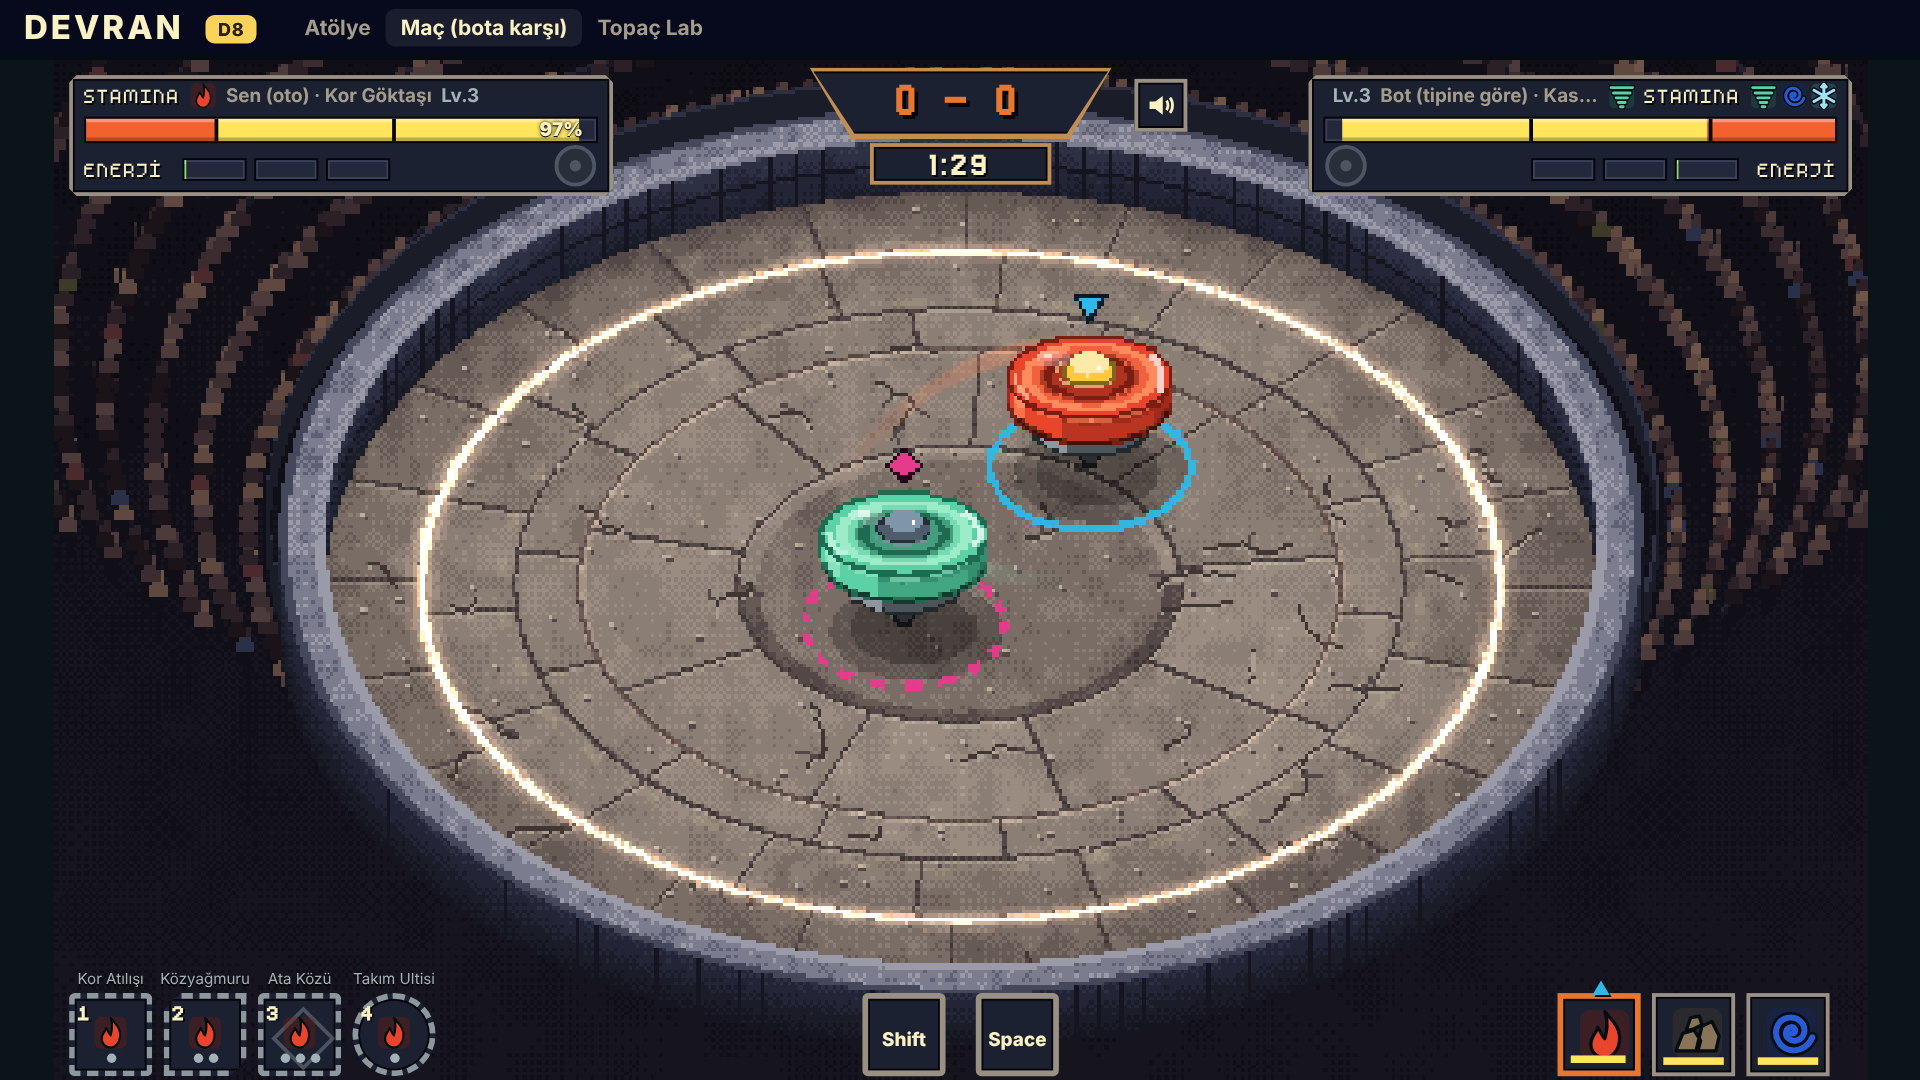
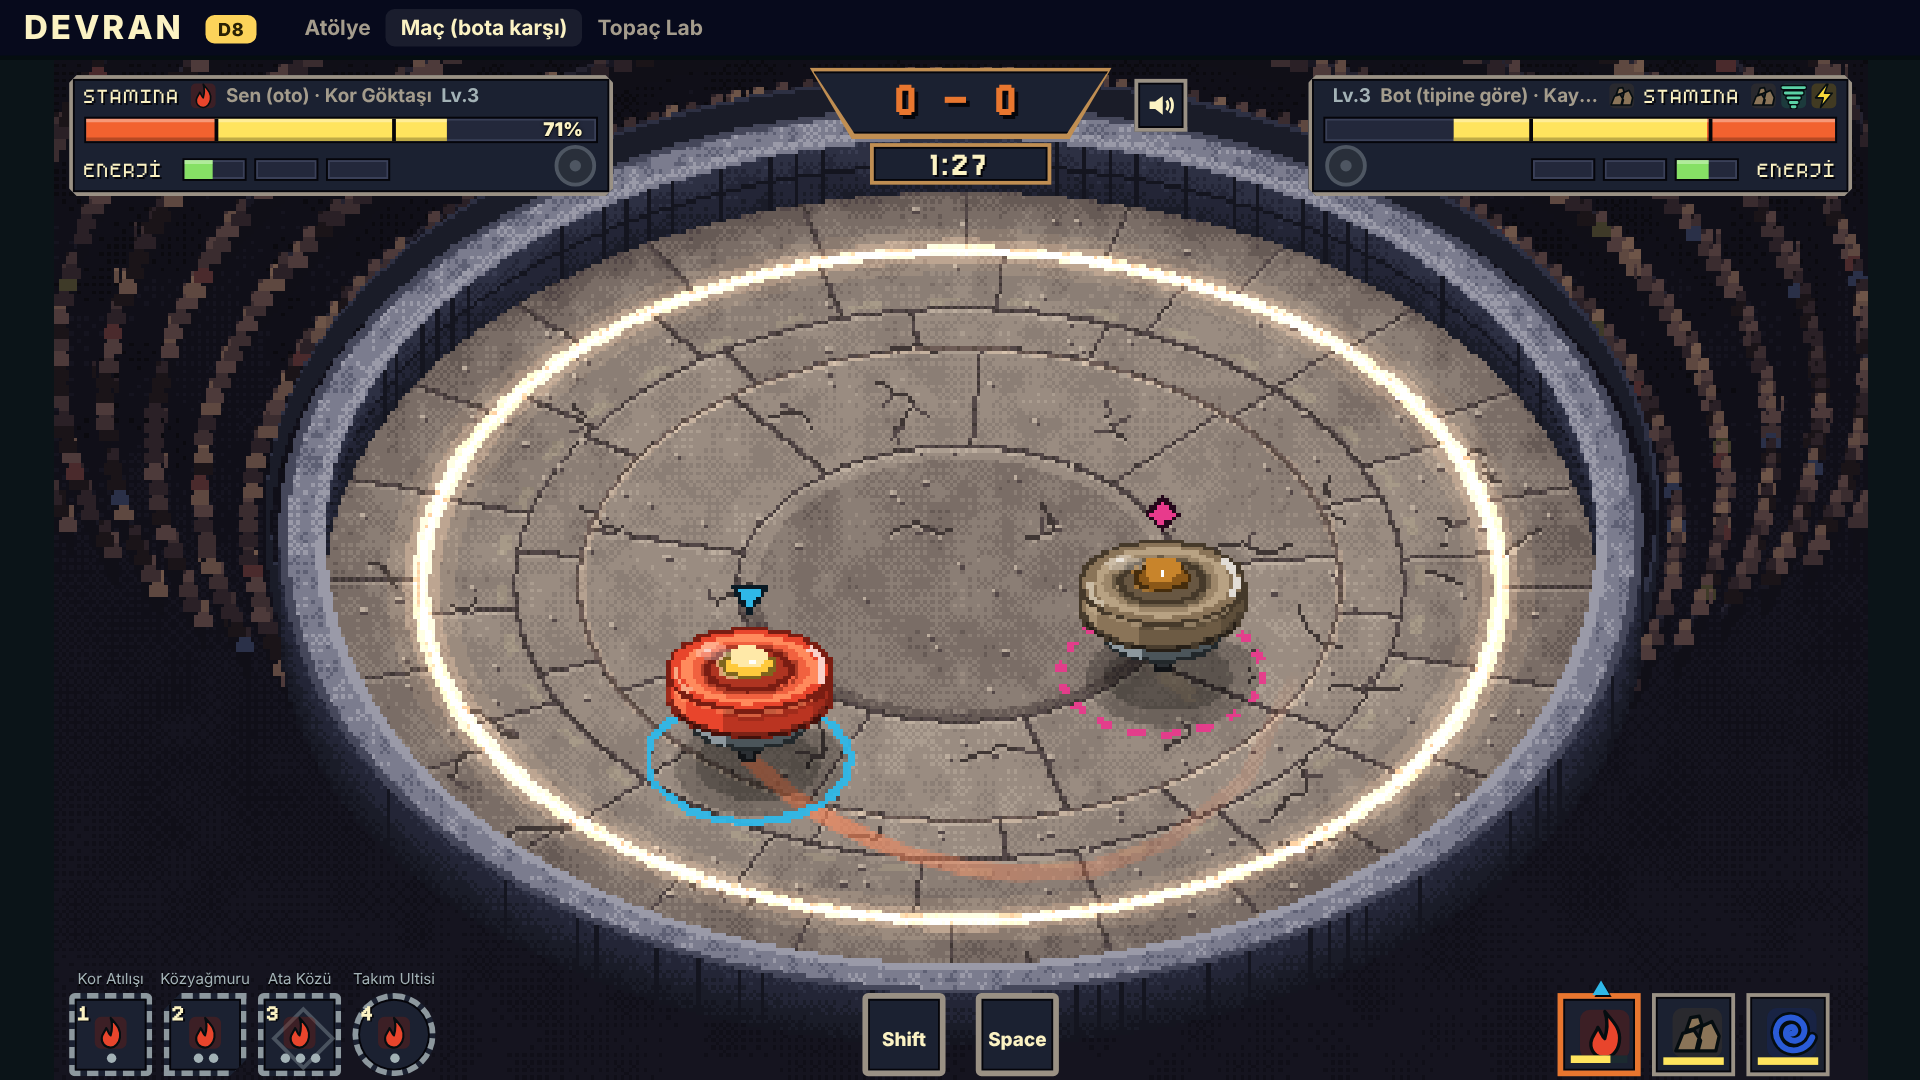
docs(gu-b): visual transformation report (reference fit 07: 4/5, 08: 3.5-4/5, frame work, gates, owner decisions, art needs); brighter wider belt glow, warmer floor
Claude-Session: https://claude.ai/code/session_01KrtXAEJc6nN2SyPJcv3nGr

diff --git a/src/istemci/oyun/HibritArena.ts b/src/istemci/oyun/HibritArena.ts
@@ -291,7 +291,7 @@ export class HibritArena implements ArenaCizimi {
       const zy = (j + 0.5 - g.cy) / g.ry;
       const r = Math.hypot(zx, zy);
       const id = slabId[p]!;
-      let v = 5.2 + tonAl(id) + (gurultu(i, j, 6, 1) - 0.5) * 1.3 + (gurultu(i, j, 2, 2) - 0.5) * 0.6;
+      let v = 5.6 + tonAl(id) + (gurultu(i, j, 6, 1) - 0.5) * 1.3 + (gurultu(i, j, 2, 2) - 0.5) * 0.6;
       // çukur (merkez 0,35R): koyu, uzak iç kenarı açık (görünen eğim), yakın kenarı gölge
       if (r < AYAR.merkezKucukAlan) {
         v -= 0.9;
@@ -376,10 +376,10 @@ export class HibritArena implements ArenaCizimi {
     const nabiz = 0.85 + 0.15 * Math.sin(this.zaman * Math.PI * 2 * 0.5);
     const p = (0.75 + 0.35 * this.parilti) * nabiz;
     const h = this.halka.clear();
-    h.circle(cx, cy, kd).stroke({ width: 14, color: ARENA_HIBRIT_RENK.hale, alpha: 0.12 * p });
-    h.circle(cx, cy, kd).stroke({ width: 8, color: ARENA_HIBRIT_RENK.hale, alpha: 0.22 * p });
-    h.circle(cx, cy, kd).stroke({ width: 4, color: ARENA_HIBRIT_RENK.halka, alpha: 0.75 * p });
-    h.circle(cx, cy, kd).stroke({ width: 2, color: ARENA_HIBRIT_RENK.halkaCekirdek, alpha: 0.9 * p });
+    h.circle(cx, cy, kd).stroke({ width: 26, color: ARENA_HIBRIT_RENK.hale, alpha: 0.1 * p });
+    h.circle(cx, cy, kd).stroke({ width: 14, color: ARENA_HIBRIT_RENK.hale, alpha: 0.2 * p });
+    h.circle(cx, cy, kd).stroke({ width: 7, color: ARENA_HIBRIT_RENK.halka, alpha: 0.8 * p });
+    h.circle(cx, cy, kd).stroke({ width: 3, color: ARENA_HIBRIT_RENK.halkaCekirdek, alpha: 0.95 * p });
     h.circle(cx, cy, ki).stroke({ width: 3, color: ARENA_HIBRIT_RENK.hale, alpha: 0.16 * p });
     // hız şeridi: kuşak bandında dönen kısa krem çizgiler ("burada hızlanıyorsun", pixel planı § 6.2)
     const s = this.serit.clear();

diff --git a/docs/production/raporlar/GU-B.md b/docs/production/raporlar/GU-B.md
@@ -1,0 +1,78 @@
+# GU-B raporu: maç ekranının görsel dönüşümü (Hibrit kamera, topaç, efekt, HUD, Ulti)
+
+**Tarih:** 2026-11-05 · **Dal:** `devran-kod` · **Şapka:** grafik / oyun geliştirici + sanat yönetmeni
+**Sahibin talimatı:** "Bir an önce oyunumuzun referans görsellerdeki gibi görünmesini istiyorum." Kamera kararı **K-1 Hibrit**:
+fizik, sim, netcode, bot, tahmin ve hash düz kalır; yalnız sunum eğik.
+**Kapsam:** `src/istemci/oyun/**` (maç sahnesi), `src/istemci/ekranlar/Mac.ts`, `Seyirci.ts`, `TopacLab.ts` (yalnız sahne bağlantısı),
+`src/istemci/ses/Ses.ts`, `public/efekt/`, `public/ses/kayit/`, `veri/manifest-ses.json`. `src/paylasilan/**` **değişmedi**;
+altın hash'ler aynı (`npm run test:tarayici`: 14/14 AYNI). Menü ekranlarına dokunulmadı (Ayarlar seçeneği `AYAR_SECENEKLERI`
+üzerinden menüde kendiliğinden görünür).
+
+## 1. Ne değişti (dilim dilim)
+
+| Dilim | Commit | Ne |
+|---|---|---|
+| GU-00 Hibrit kamera | `da6d07a`, `137f65d` | Tek dönüşüm `Sahne` + `kamera.ts`: dünyaY = merkez + kayma + z·**0,62**, sabit kamera yakınlığı **×1,4** (çanak ekranı doldursun), fare nişanı ters dönüşümle (`ekrandanSime`, birim testli). Zemin düzlemi kapsayıcıları (`zeminDuzlem`, `ustDuzlem`): içlerinde düz sim koordinatıyla çizilen telegraf, alan dekali, nişan, bağ çizgisi otomatik elips olur. Sarsıntı, squash normali, kıvılcım/toz/duvar parçacık yönleri izdüşmüş normali kullanır. H11 kenar uyarısı dudakta elips yay, "!" dik. Pixel görünüm: dünya `cacheAsTexture({resolution 0,5, nearest})` ile **480×270** dokuya çizilip büyütülür (sabit `boundsArea`, ızgara kaymaz). Yeni `HibritArena`: yordamsal pixel dokular (tribün + kalabalık siluetleri, hafif parallax; uzak duvar iç yüzü taş blok dikişli; dudak; çatlaklı taş levha zemin, Bayer dither, çakıl, merkez çukur, kenar eğim gölgesi; ayrı yakın dudak dokusu topacın ÜSTÜNDE), ışıyan kuşak halkası `#FBBE88` (ADD, ≤ 1 Hz nabız, şeritte parlar), dönen hız şeridi, ani ölüm kararması + kalınlaşan kırmızı sınır. Ring Out'ta uzak yarıdan düşen topaç duvarın arkasına geçer. Nesneler ekranY'ye göre sıralı. **Ayarlar › "Düz görünüm (sonraki maç)"**: eski `KusakArenasi` + `TopacGorsel` çizimi aynen (URL `?gorunum=duz|hibrit` geliştirici ezmesi). |
+| GU-topaç | `da6d07a`, `33a0820` | `TopacYandan`: üç çeyrek katmanlı yer tutucu (elips gölge, takım çemberi zeminde elips: oyuncu düz + ▼, rakip kesikli + ◆; Uç konisi, Disk silindiri + dönen kilit çentikleri, Gövde yan bandı ışıklı/koyu dilimler + dönen sırt çizgileri, üst yüzde dönen kanat siluet, Çekirdek kubbe + Lv. yayı, dönmeyen parlama), 3 hız kademesi (bulanık disk / iki hayaletli bulanık kanat / keskin kanat + yalpa eğilmesi), Sekme'de yükselme + gölge ayrılması, Durma'da yana yatma, Parçalanma'da katmanlar havada sekerek dağılır, Çekirdek yerde parlar, H12 çatlak üst yüzde. Element paleti `renkler.ts` (pixel planı § 2.3). Hepsi Pixi Graphics, dışarıdan sanat yok. |
+| GU-efekt | `382ed61` | Pişmiş atlaslar `public/efekt/` (pixelfx MIT + Aim CC0; `EfektAtlas.ts`: Spritesheet, `nearest`, önbellek, yüklenemezse yordamsal yedek). Atlas pikseli = sanat pikseli. Hava efektleri sheet'ten: kıvılcım (ağır), kritik yıldız patlaması, toz bulutu (Ring Out, Parçalanma, Durma), enerji doldu, Kor bulutu / Don kırılma / Şimşek çarpma, element Ulti (kasırga hortumu, girdap çöküşü, kaya sivrisi …). Zemin efektleri kodla elips (şok çemberi, Ulti halkaları); tam sayı olmayan dikey ölçek yok. Yordamsal: ışınsal yıldız patlaması ve iki topacın renginde hız çizgileri (referans 07), kıvılcımlar gövde yüksekliğinde. Ses: 18 CC0 kayıt (`public/ses/kayit/`) sentez tabanın üstüne katman (`KAYIT_KATMANI`; hafif/ağır/kritik metal, duvar, cam Parçalanma, bozuk para Durma, zil Enerji, UI tık); dosya yüklenmezse yalnız sentez. `manifest-ses.json` `kayitAdaylari` → "entegre". |
+| GU-02 HUD | `d6445a8` | `MacHud` DOM yapısı, H1–H15 konumları, ARIA, %100/125/150 metin ölçeği, yüksek kontrast korundu; menü dili jetonları/yazıları (`jetonlar.css`, `public/yazi/` m5x7 + Jersey 10) kullanıldı. STAMINA / ENERJİ büyük harf pixel etiket; stamina çubuğu dış uçtan kırmızı (%0–25) → sarı bölgeli (referans 07; ayraçlar, tarama, "!" ve nabız korundu); Enerji yeşil `#86E065` → Ulti hazırken sarı-turuncu `#FEE55F` + turuncu "ULTİ"; bronz trapez skor plakası, turuncu Jersey rakam; süre plakası; lacivert pahlı paneller, bej çerçeve; aktif takım yuvası turuncu çerçeve. **H16 ses düğmesi** (her zaman görünür, M ile aynı, üzerine gelince Müzik/Efekt kaydırıcıları, `localStorage`), arena müziği döngüsü (%40 varsayılan). |
+| GU-05 Ulti / telegraf | `26ef02a` | Telegraf kırmızısı `#C82625`; Ulti atanın altında eş merkezli **iki kırmızı zemin halkası** + topaç üstünde element aurası (08'deki alev); rakip alanları zeminde taramalı elips + dik element simgesi + bağ çizgisi; dash koni izi; sol/sağ kenar `#E6680C` parlaması (yalnız "Flaş: Normal", ≤ %25, 0,3 s tek yönlü); D8 özgün ruh siluetleri uzak duvar hizasında, yarı saydam (≤ %75), kamera yakınlığı telafili; Takım Ultisi üç ruh. Kanatlı kuş YOK. |
+| Doğrulama | `01895c1` + bu commit | `araclar/gu-ekran.ts` (ekran görüntüleri + kare işi ölçümü), `test/kamera.test.ts`, bu rapor. |
+
+## 2. Ekran görüntüleri (`docs/production/raporlar/ekran/`, 1920×1080: 1280×720 CSS × DPR 1,5 = 960×540 mantıksal × 2)
+
+`GU-B-01-normal` · `02-carpisma` · `03-hiz-seridi` · `04-dusuk-stamina-yalpa` · `05-ring-out` · `06-parcalanma` · `07-ani-olum` ·
+`08-telegraf-rakip-ulti` · `09-ulti-ani` · `10-takim-ultisi` · `11-duz-gorunum` · `12-topac-lab` · `13-durma` · yan yana:
+`GU-B-kiyas-07.png` (referans 07 | çarpışma anı), `GU-B-kiyas-08.png` (referans 08 | Ulti anı). Özet: `GU-B-ozet.json`.
+Not: 960×540 görüntü alanı uygulamada "en az 1280×720" uyarısını açtığı için DPR 2 yerine aynı çıktı boyutunu veren 1,5 kullanıldı.
+`10-takim-ultisi` aynı betiğin önceki koşusundan (son koşuda Takım Ultisi tuşu headless zamanlamasında kaçtı, `ozet.json`'da kayıtlı).
+Ekrandaki üst gezinti çubuğu menü kabuğunun (başka ajan), maç sahnesinin değil.
+
+## 3. Referans uyumu (0–5)
+
+| Ekran | Önce (tasarım dili § 7.1) | Şimdi | Gerekçe |
+|---|---|---|---|
+| 07 maç | 2 | **4** | Eğik elips çanak, uzak duvar + tribün, çatlak taş, ışıyan halka, yandan topaçlar, yıldız patlaması + renkli hız çizgileri, STAMINA/ENERJİ, kırmızı→sarı çubuk, yeşil Enerji, bronz skor plakası, alt yuvalar düzeni referansla örtüşüyor. |
+| 08 Ulti | 2 | **3,5–4** | Çift kırmızı zemin halkası, kenar parlaması, alev aurası, dash konisi, yarı saydam ruh arenanın üstünde, sarı-turuncu Enerji + ULTİ. |
+
+**Kalan farklar (kaçak):** (1) çanak referansta ekranı tam doldurur ve topaçlar daha büyük; bizde yakınlık ×1,4 (HUD şeritleri 50–492 dışında kalsın diye; ×1,6 referansa daha yakın ama alt/üst kenar HUD altına girer) · (2) topaçlar yer tutucu Graphics: referanstaki elle çizilmiş pixel sprite kalitesinde değil (eş merkezli sırtlar ve amblem sade) · (3) referansın uzun koyu düşen gölgesi bizde yumuşak elips · (4) tribün kalabalığı yanlarda çizgisel bant gibi okunuyor, referansta seyrek ve iri · (5) mavi topacın krem sarmal izi bizde düz MeshRope (eğik ve kısa) · (6) avatar sanatı yer tutucu siluet. **Kasıtlı (kapatılmaz):** takım çemberi + ▼/◆, ad/Lv./%/Çatlak satırı, 4. yuva + Shift/Space, kanatsız özgün ruh, telegrafta çapraz tarama (tasarım dili § 7.11).
+
+## 4. Performans (headless Chromium 153, SwiftShader yazılım GL; gerçek GPU değil)
+
+Kare başına CPU işi (mantık + Pixi render; `__mac.olcumBaslat`, ~130 kare, oto maç): **Hibrit p50 2,1–3,2 ms, p95 4,5–9,6 ms** (en çok 19–31 ms, atlas ilk yükleme/GC karesi);
+Düz görünüm p50 1,4–2,3, p95 3,7–5,9 ms. Bütçe p95 ≤ 16,7 ms içinde. Headless'ta rAF kare aralığı GPU geri okuması (yazılım GL) yüzünden
+ölçülemez (saniyede birkaç kare); gerçek GPU'da ölçülmedi: sahibin makinesinde `?debug` ile `__mac.olcumBaslat()` önerilir.
+Ek maliyet: 480×270 önbellek dokusu (tek ek çizim), statik arena dokuları bir kez kanvasta (~130 k piksel, açılışta), maçta en çok 3 efekt atlası (~1,7 MB PNG).
+
+## 5. Test ve kapılar (her dilim sonunda)
+
+`npm test` 403/403 (yeni `test/kamera.test.ts` 4 test) · `npm run lint` temiz · `npm run typecheck` temiz (yalnız başka ajanın yarım
+`araclar/d8-akis.ts`'i dönem dönem hata verdi, `src/` temiz) · `npm run build` yeşil · `npm run test:tarayici` **14/14 AYNI** (altın hash'ler değişmedi).
+Konsol hatası 0 (`GU-B-ozet.json` `hatalar: []`; yalnız menü kabuğunun font preload uyarıları).
+**Çevrimiçi:** `araclar/d8-akis.ts` (AG_ADRES 5191) ile iki istemci oda açıp maç oynadı: Hibrit sahne çevrimiçi akışta çalıştı, ağ
+rozetinde `hash 8/8 · sapma 0` (tahmin/uzlaşma bozulmadı). Betik sonraki adımda `window.__lobi` bulunamadığı için durdu (lobi
+ekranının yeni sürümüyle ilgili; maç sahnesiyle değil) → seyirci maç görünümü bu koşuda çekilemedi; seyirci ekranı aynı `Sahne`
+kipini kullanır, bekleme kartı hatasız açıldı. D8 dosyaları geri alındı (başka ajanın çıktıları).
+
+## 6. Varsayımlar
+
+- Kamera yakınlığı ×1,4 ve kayma 6 px bir sunum ölçeğidir (x ve z için aynı; z ek olarak 0,62): "x aynı" kuralının ruhu korunur, fare ters dönüşümü testli.
+- Topacın kendi elips oranı 0,5 (zemin 0,62'den dik): uç ve disk gövdenin altından görünsün diye (referans 07 okuması).
+- Yakın duvar alçak çizildi (uzak 15, yakın 4 sanat pikseli): alt kenardaki Ring Out bölgesi örtülmesin.
+- Stamina rengi: tasarım dili C-16 eşik rengi yerine sahibin "kırmızı→sarı (07)" isteği uygulandı; okunurluk ayraç + tarama + "!" ile korunur.
+- "Düz görünüm" sahne yeniden kurulması gerektiğinden **sonraki maçta** uygulanır.
+- Ogg kayıtları Safari'de çalmazsa yalnız sentez duyulur (zararsız yedek).
+
+## 7. Sahibe kalan kararlar
+
+1. Kamera yakınlığı: ×1,4 (şimdi, HUD şeritleri boş) mı, ×1,6 (referansa daha yakın, çanak HUD altına taşar) mı?
+2. Stamina çubuğu: referans 07 bölgeli kırmızı→sarı (şimdi) mi, belge C-16 eşik rengi mi?
+3. Arena müziği maçta varsayılan açık (%40) kalsın mı?
+4. `@pebble` okunurluk testi (720p H.264, dikey çarpışma, üst/alt kenar) yapılsın mı (GU-00 kabul ölçütü)?
+
+## 8. Sanat kolu ihtiyacı
+
+- **Topaç sprite'ları** (en büyük kalan fark): pixel planı § 3 (c) Blender → pixel boru hattı, render açısı **35–45°** (Hibrit), katman başına (Uç, Disk, Gövde, Çekirdek) periyot başına 8 kare, keskin + bulanık + sol ayna; `TopacAtlas.ts` yükleyicisi hazır, `TopacYandan` çizimi atlas gelince katman katman değiştirilir.
+- Ruh avatarları (özgün, kanatsız; D8 siluetleri yer tutucu).
+- Tribün kalabalık tileset'i (iri, seyrek, 2–3 poz) ve uzun düşen gölge.
+- Uzun vadede zemin efektleri için k_y = 0,62'ye göre yeniden pişirilmiş elips varyantlar (frost-nova, fire-ring halkaları).
